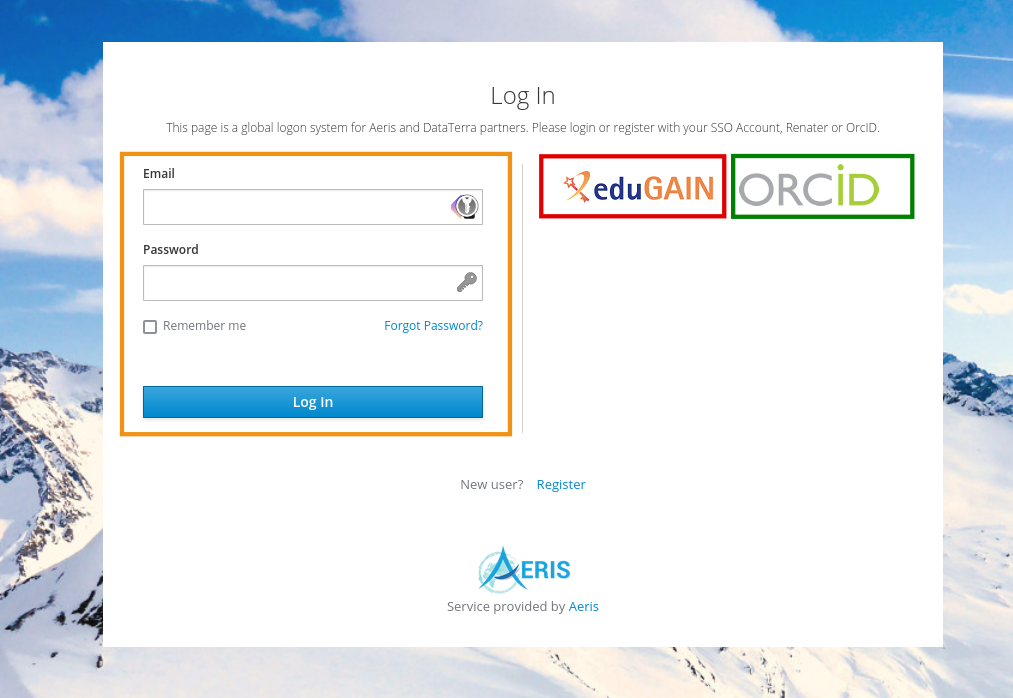
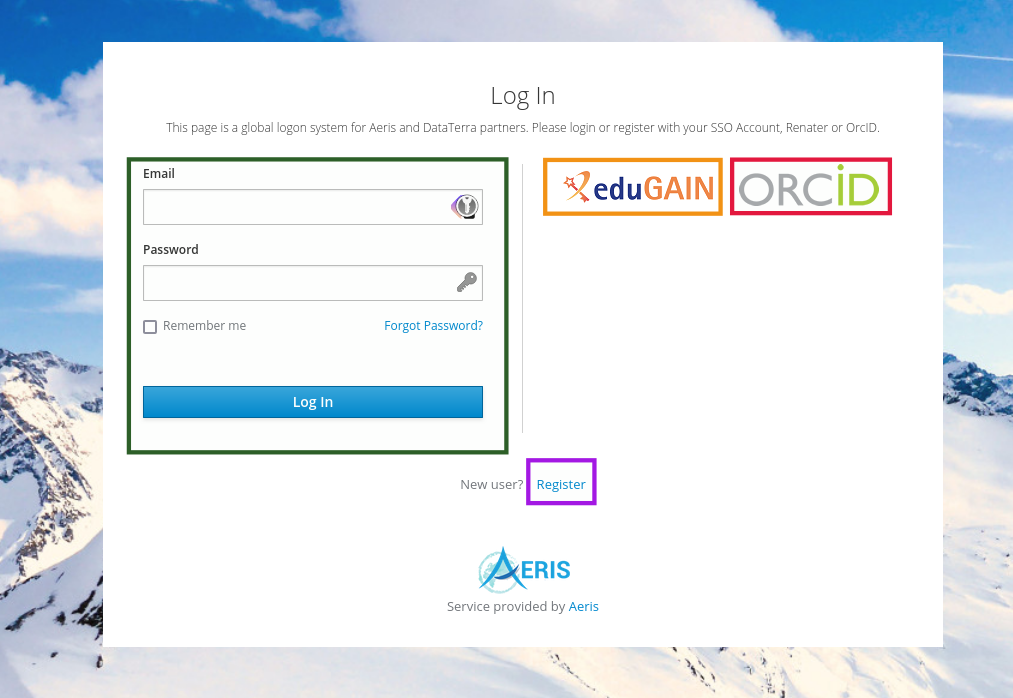
update grafana documentation

Changed region(s): [[0.0918, 0.2106, 0.9181, 0.7221]]

diff --git a/source/services/grafana/first-connection.md b/source/services/grafana/first-connection.md
@@ -1,0 +1,58 @@
+# First connection
+
+## Access the grafana server
+
+1. Go to [https://ccres.ipsl.fr/grafana/](https://ccres.ipsl.fr/grafana/)
+1. Click on the `Sign in with AERIS-SSO` button
+
+    ![grafana home](../../assets/services/grafana/grafana_welcome-page.png){width=500 align=center}
+
+1. You will be redirected on the AERIS-SSO (Single Sign On) login page
+
+
+## Choose your authentication method
+
+![grafana home](../../assets/services/grafana/grafana_aeris-sso.png){width=500 align=center}
+
+You have 3 ways to authenticate:
+- [edugain](https://edugain.org/)
+- [ORCID](https://orcid.org/)
+- [AERIS](https://aeris-data.fr)
+
+:::{caution}
+You need to **always** use the same method to authenticate on grafana or more generally on CCRES services.
+:::
+
+### ORCID (recommended)
+
+ORCID is a service that allows you to use your ORCID credentials to access services. If you choose this method, you will be redirected to the ORCID login page.
+
+
+![grafana orcid](../../assets/services/grafana/grafana_orcid.png){width=500 align=center}
+
+### edugain
+
+Edugain is a service that allows you to use your academic credentials to services. If you choose this method, you will be redirected to your institution's login page.
+
+![grafana edugain](../../assets/services/grafana/grafana_edugain.png){width=500 align=center}
+
+
+### AERIS
+
+If you are unable to use any of the above methods, you can create an AERIS account. Click on the **register** link (purple border).
+
+![grafana home](../../assets/services/grafana/grafana_aeris-sso.png){width=500 align=center}
+
+You will just have to fill the form and validate your email address.
+
+## After you are authenticated
+
+Once you are authenticated, you will be redirected to the grafana homepage in the `default` organization.
+To access to the organization dedicated to `National facilities`, please contact the [support](mailto:ccres-dev@listes.ipsl.fr) to request access.
+
+
+
+
+
+
+

diff --git a/source/services/grafana/using-grafana.md b/source/services/grafana/using-grafana.md
@@ -1,0 +1,11 @@
+# Using grafana
+
+## Access dashboards
+
+- Go to [https://ccres.ipsl.fr/grafana/](https://ccres.ipsl.fr/grafana/).
+- Click the `dashboards` link on the left menu (purple border in the image below).
+
+![grafana home](../../assets/services/grafana/grafana_homepage-nf-dashboard.png){width=500 align=center}
+
+You will acces all the dashboards available for the `National facilities` organization. They are organised by actris-ccres sites.
+At the moment only the dashboards to monitor the hatpro are available. Other dashboards will be available soon.

diff --git a/source/services/grafana/index.md b/source/services/grafana/index.md
@@ -1,0 +1,10 @@
+# Grafana
+
+ACTRIS-CCRES provides acces to a grafana server to visualize in near real time HouseKeeping Date (HKD) of instruments.
+
+The server is available at [https://ccres.ipsl.fr/grafana/](https://ccres.ipsl.fr/grafana/).
+
+```{toctree}
+first-connection
+using-grafana
+```

diff --git a/source/index.md b/source/index.md
@@ -1,18 +1,19 @@
 ---
-sd_hide_title: true
+title: ACTRIS-CCRES documentation
 ---
-
-# ACTRIS-CCRES documentation
-
-
-
-
 
 ```{toctree}
 :hidden:
 :caption: Services
 
-services/grafana.md
+services/grafana/index
+```
+
+```{toctree}
+:hidden:
+:caption: codes
+
+codes/index.md
 ```
 
 
